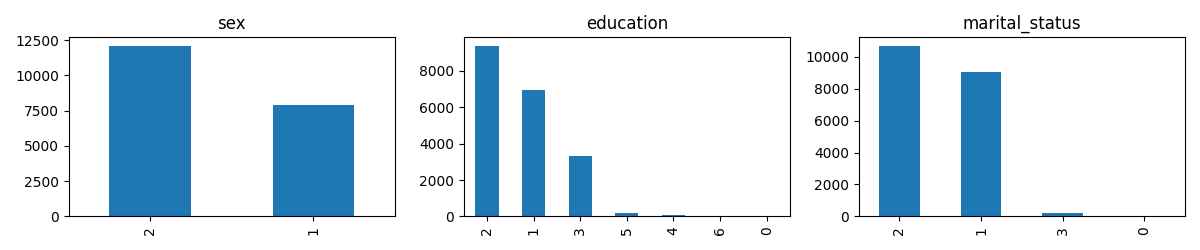
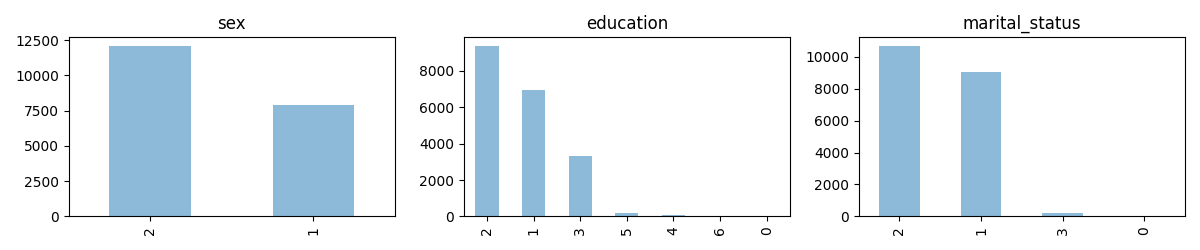
bug 수정, 재실험

diff --git a/term_project/train.py b/term_project/train.py
@@ -31,12 +31,11 @@ class EXEMODE(Enum):
     ALL = 0
     FINAL = 1
 
-def data_distribution(data, type='numerical', target='base'):
+# 데이터 분포 확인
+def data_distribution(data, type='numerical', about='base'):
     num_col = 3
     num_row = int(np.ceil(len(data.columns) / num_col))
-
     fig, axs = plt.subplots(num_row, num_col)
-    # plt.subplots_adjust(hspace=0.5, wspace=0.3)
     fig.set_figheight(num_row * 2.5)
     fig.set_figwidth(num_col * 4)
     for index, feature in enumerate(data.columns):
@@ -45,44 +44,17 @@ def data_distribution(data, type='numerical', target='base'):
 
         kind = 'hist' if type == 'numerical' else 'bar'
         ax = axs[i_col] if num_row == 1 else axs[i_row, i_col]
-        data[feature].value_counts().plot(ax=ax, title=feature, kind=kind)
+
+        if type == 'numerical':
+            data[feature].plot.hist(ax=ax, title=feature, alpha=0.5)
+        elif type == 'categorical':
+            data[feature].value_counts().plot(ax=ax, kind='bar', title=feature, alpha=0.5)
+
+        # data[feature].value_counts().plot(ax=ax, title=feature, kind=kind, alpha=0.5)
+        # print(data[feature].value_counts())
 
     plt.tight_layout()
-    plt.savefig('./results/data_distribution_{}_{}.png'.format(target, type))
-
-
-# 데이터 분포 확인
-# def data_distribution(data, feature_names_categorical, purpose='base'):
-#     # 정상납부 고객 정보
-#     data_normal = data[data['target'] == 0].drop(['target'], axis=1)
-#     # 연체 고객 정보
-#     data_overdue = data[data['target'] == 1].drop(['target'], axis=1)
-#
-#     # Feature별 데이터 분포 확인
-#     fig, axs = plt.subplots(5, 4)
-#     plt.subplots_adjust(hspace=0.5, wspace=0.3)
-#     fig.set_figheight(12)
-#     fig.set_figwidth(12)
-#     for index, feature_name in enumerate(data_normal.columns):
-#
-#         i_row = int(np.floor((index / 4) % 5))
-#         i_col = index % 4
-#
-#         if purpose == 'base':
-#             if feature_name in feature_names_categorical:
-#                 unique_values = sorted(data[feature_name].unique())
-#                 axs[i_row, i_col].set_xticks(unique_values)
-#         elif purpose == 'scaling':
-#             if feature_name in feature_names_categorical:
-#                 continue
-#
-#         axs[i_row, i_col].set_title(feature_name)
-#         axs[i_row, i_col].hist(data_normal[feature_name], alpha=0.4, align='mid', color='green', label='target=0')
-#         axs[i_row, i_col].hist(data_overdue[feature_name], alpha=0.4, align='mid', color='blue', label='target=1')
-#         axs[i_row, i_col].legend()
-#
-#     plt.savefig('./results/data_distribution_{}.png'.format(purpose))
-
+    plt.savefig('./results/data_distribution_{}_{}.png'.format(about, type))
 
 # 데이터 전처리
 def data_preprocessing(data):
@@ -141,12 +113,33 @@ def data_preprocessing(data):
                                                                                counter[1]))
     return data_pp
 
-# 기본 모델 생성
-def default_model():
+# 기본 모델(SVM, XGBoost, CatBoost) 학습
+def training_default_model(input, target, about='base'):
+    train_input, valid_input, train_target, valid_target \
+        = train_test_split(input, target, test_size=0.33, random_state=42)
+    # SVM
     svc_model = SVC()
+    svc_model.fit(train_input, train_target)
+    svc_pred_target = svc_model.predict(valid_input)
+    svc_b_accr = balanced_accuracy_score(valid_target, svc_pred_target)
+    # XGBoost
     xgb_model = XGBClassifier(random_state=42)
+    xgb_model = xgb_model.fit(train_input, train_target)
+    xgb_pred_target = xgb_model.predict(valid_input)
+    xgb_b_accr = balanced_accuracy_score(valid_target, xgb_pred_target)
+    # CatBoost
     cat_model = CatBoostClassifier()
-    return svc_model, xgb_model, cat_model
+    cat_model.fit(train_input, train_target, verbose=100)
+    cat_pred_target = cat_model.predict(valid_input)
+    cat_b_accr = balanced_accuracy_score(valid_target, cat_pred_target)
+
+    result = pd.DataFrame(columns=['model', 'balanced accuracy'])
+    result.loc[0] = [svc_model.__class__.__name__, svc_b_accr]
+    result.loc[1] = [xgb_model.__class__.__name__, xgb_b_accr]
+    result.loc[2] = [cat_model.__class__.__name__, cat_b_accr]
+    print('##### Model training result ({})'.format(about))
+    print(result)
+    result.to_csv('./results/balanced_accuracy_{}.csv'.format(about))
 
 # feature 중요도 계산
 def feature_importance(model, x, y, feature_names, postfix=None):
@@ -157,25 +150,25 @@ def feature_importance(model, x, y, feature_names, postfix=None):
     train_x, valid_x, train_y, valid_y = train_test_split(x, y, test_size=0.33, random_state=42)
     model.fit(train_x, train_y)
     print('complete model fit...')
-    result = permutation_importance(model, valid_x, valid_y, n_repeats=30, random_state=0, n_jobs=3)
-    sorted_idx = result.importances_mean.argsort()
+    perm_importance = permutation_importance(model, valid_x, valid_y, n_repeats=30, random_state=0, n_jobs=3)
+    sorted_idx = perm_importance.importances_mean.argsort()
     print('complete permutation importance...')
 
     # save csv
-    importances = pd.DataFrame()
-    importances['feature'] = [feature_names[index] for index in sorted_idx]
-    importances['importance'] = result.importances_mean[sorted_idx]
-    importances.sort_values(by='importance', ascending=False, inplace=True)
-    importances.to_csv('./results/feature_importance_{}.csv'.format(postfix))
-    print(importances)
+    result = pd.DataFrame()
+    result['feature'] = [feature_names[index] for index in sorted_idx]
+    result['importance'] = perm_importance.importances_mean[sorted_idx]
+    result.sort_values(by='importance', ascending=False, inplace=True)
+    result.to_csv('./results/feature_importance_{}.csv'.format(postfix))
+    print(result)
 
     # save plot
     sns.set(rc={"axes.unicode_minus": False}, style='whitegrid')
     fig, ax = plt.subplots()
-    ax.boxplot(result.importances[sorted_idx].T, vert=False, labels=[feature_names[index] for index in sorted_idx])
+    ax.boxplot(perm_importance.importances[sorted_idx].T, vert=False, labels=[feature_names[index] for index in sorted_idx])
     ax.set_title("Feature Importance ({})".format(postfix))
     fig.tight_layout()
-    plt.savefig('./results/feature_inportance_{}.png'.format(postfix))
+    plt.savefig('./results/feature_importance_{}.png'.format(postfix))
 
 
 # 실행모드
@@ -198,32 +191,41 @@ data_base['target'] = np.loadtxt('./_datasets/train_target.txt', dtype=int)
 
 # 1) 데이터 분포 확인
 if exe_mode == EXEMODE.FINAL:
-    data_distribution(data_base[feature_names_numerical], type='numerical', target='base')
-    data_distribution(data_base[feature_names_categorical], type='categorical', target='base')
+    data_distribution(data_base[feature_names_numerical], type='numerical', about='base')
+    data_distribution(data_base[feature_names_categorical], type='categorical', about='base')
+    # base 데이터 기반 기본 모델 학습
+    input = data_base.drop(['target'], axis=1).to_numpy()
+    target = data_base['target'].to_numpy()
+    training_default_model(input, target, about='base')
 
 ####################
 # 2. 데이터에 대한 적절한 처리 및 특징 추출 방안
 ####################
 
 # 1) 데이터 전처리
-data_pp = data_preprocessing(data_base)
+if exe_mode == EXEMODE.FINAL:
+    data_pp = data_preprocessing(data_base)
+    input = data_pp.drop(['target'], axis=1).to_numpy()
+    target = data_pp['target'].to_numpy()
+    training_default_model(input, target, about='preprocessed')
 
 # 2) Feature scaling
 if exe_mode == EXEMODE.FINAL:
     scaler = StandardScaler()
     data_pp[feature_names_numerical] = scaler.fit_transform(data_pp[feature_names_numerical])
-    data_distribution(data_pp[feature_names_numerical], type='numerical', target='scaled')
-
-# 3) Feature 중요도 평가
-if exe_mode == EXEMODE.FINAL:
+    data_distribution(data_pp[feature_names_numerical], type='numerical', about='scaled')
     input = data_pp.drop(['target'], axis=1).to_numpy()
     target = data_pp['target'].to_numpy()
+    training_default_model(input, target, about='scaled')
 
+# 3) Feature 중요도 평가
+if exe_mode == EXEMODE.ALL:
+    input = data_pp.drop(['target'], axis=1).to_numpy()
+    target = data_pp['target'].to_numpy()
     # 기본 모델(SVM, XGBoost, CatBoost) 이용
-    svc_model, xgb_model, cat_model = default_model()
-    feature_importance(svc_model, input, target, feature_names)
-    feature_importance(xgb_model, input, target, feature_names)
-    feature_importance(cat_model, input, target, feature_names)
+    feature_importance(SVC(), input, target, feature_names)
+    feature_importance(XGBClassifier(random_state=42), input, target, feature_names)
+    feature_importance(CatBoostClassifier(), input, target, feature_names)
 
 # 4) Feature selection : 삭제(성별, 최종학력, 결혼여부), 추가(이용금액, 납부금액, 연체회차, 연체금액), 삭제(과거 6개월간 청구대금, 납부금액)
 if exe_mode == EXEMODE.ALL:
@@ -267,7 +269,7 @@ if exe_mode == EXEMODE.ALL:
 # 5) Feature extraction (PCA)
 # 시각화 : https://plotly.com/python/pca-visualization/
 # 참고 : Scale에 따라 주성분의 설명 가능한 분산량이 왜곡될 수 있기 때문에 PCA 수행 전 표준화 필요
-if exe_mode == EXEMODE.FINAL:
+if exe_mode == EXEMODE.ALL:
     pca = PCA()
     pcs = pca.fit_transform(data_pp.drop(['target'], axis=1))
     labels = {
@@ -284,8 +286,8 @@ if exe_mode == EXEMODE.FINAL:
 # 4. 불균형이 심한 데이터를 처리 및 학습하기 위한 방안
 ####################
 
-input = data_pp.drop(['target'], axis=1).to_numpy()
-target = data_pp['target'].to_numpy()
+# input = data_pp.drop(['target'], axis=1).to_numpy()
+# target = data_pp['target'].to_numpy()
 
 # 1) RandomOverSampler
 # ros = RandomOverSampler(sampling_strategy='auto', random_state=42)
@@ -297,11 +299,11 @@ target = data_pp['target'].to_numpy()
 # TODO sampling_strategy = 'minority', 'not minority', 'not majority', 'all', 'auto'(='not majority')
 # TODO n_neighbors = default 5
 # sampling_strategy = {0: 20000, 1: 20000}
-sampling_strategy = 'not majority'
-smote = SMOTE(sampling_strategy=sampling_strategy, random_state=42)
-input_over, target_over = smote.fit_resample(input, target)
-print('Original dataset shape %s' % Counter(target))
-print('Resampled dataset shape %s' % Counter(target_over))
+# sampling_strategy = 'not majority'
+# smote = SMOTE(sampling_strategy=sampling_strategy, random_state=42)
+# input_over, target_over = smote.fit_resample(input, target)
+# print('Original dataset shape %s' % Counter(target))
+# print('Resampled dataset shape %s' % Counter(target_over))
 
 # 3) SMOTE-Nominal Continuous (SMOTENC)
 # smotenc = SMOTENC(sampling_strategy='auto', random_state=42, categorical_features=[1, 2, 3])
@@ -322,34 +324,21 @@ print('Resampled dataset shape %s' % Counter(target_over))
 # 5. 2종 이상의 모델 설계 및 성능 비교 : SVM, XGBoost, CatBoost, TODO MLP
 # 6. 성능을 향상시키기 위한 각종 아이디어 - Ensemble
 ####################
-train_input, valid_input, train_target, valid_target \
-    = train_test_split(input_over, target_over, test_size=0.33, random_state=42)
+# train_input, valid_input, train_target, valid_target = train_test_split(input_over, target_over, test_size=0.33, random_state=42)
 
 # TODO 파라미터 최적화 : Scikit-learn GridSearchCV
 
 # SVM
-svc_model = SVC()
-svc_model.fit(train_input, train_target)
-pred_target = svc_model.predict(valid_input)
-b_accr = balanced_accuracy_score(valid_target, pred_target)
-print('##### SVM balanced accuracy: {}'.format(b_accr))
+
+# MLP
 
 # XGBoost
 # xgb_model = XGBClassifier(booster='gbtree', max_depth=10, gamma=0.5, learning_rate=0.01, n_estimators=100,
 #                           random_state=99)
-xgb_model = XGBClassifier(random_state=42)
-xgb_model = xgb_model.fit(train_input, train_target)
-pred_target = xgb_model.predict(valid_input)
-b_accr = balanced_accuracy_score(valid_target, pred_target)
-print('##### XGB balanced accuracy: {}'.format(b_accr))
 
 # CatBoost
-cat_model = CatBoostClassifier()
+# cat_model = CatBoostClassifier()
 # cat_model.fit(train_input, train_target, use_best_model=True, early_stopping_rounds=100, verbose=100)
-cat_model.fit(train_input, train_target, verbose=100)
-pred_target = cat_model.predict(valid_input)
-b_accr = balanced_accuracy_score(valid_target, pred_target)
-print('##### CB balanced accuracy: {}'.format(b_accr))
 
 ####################
 # Save model
